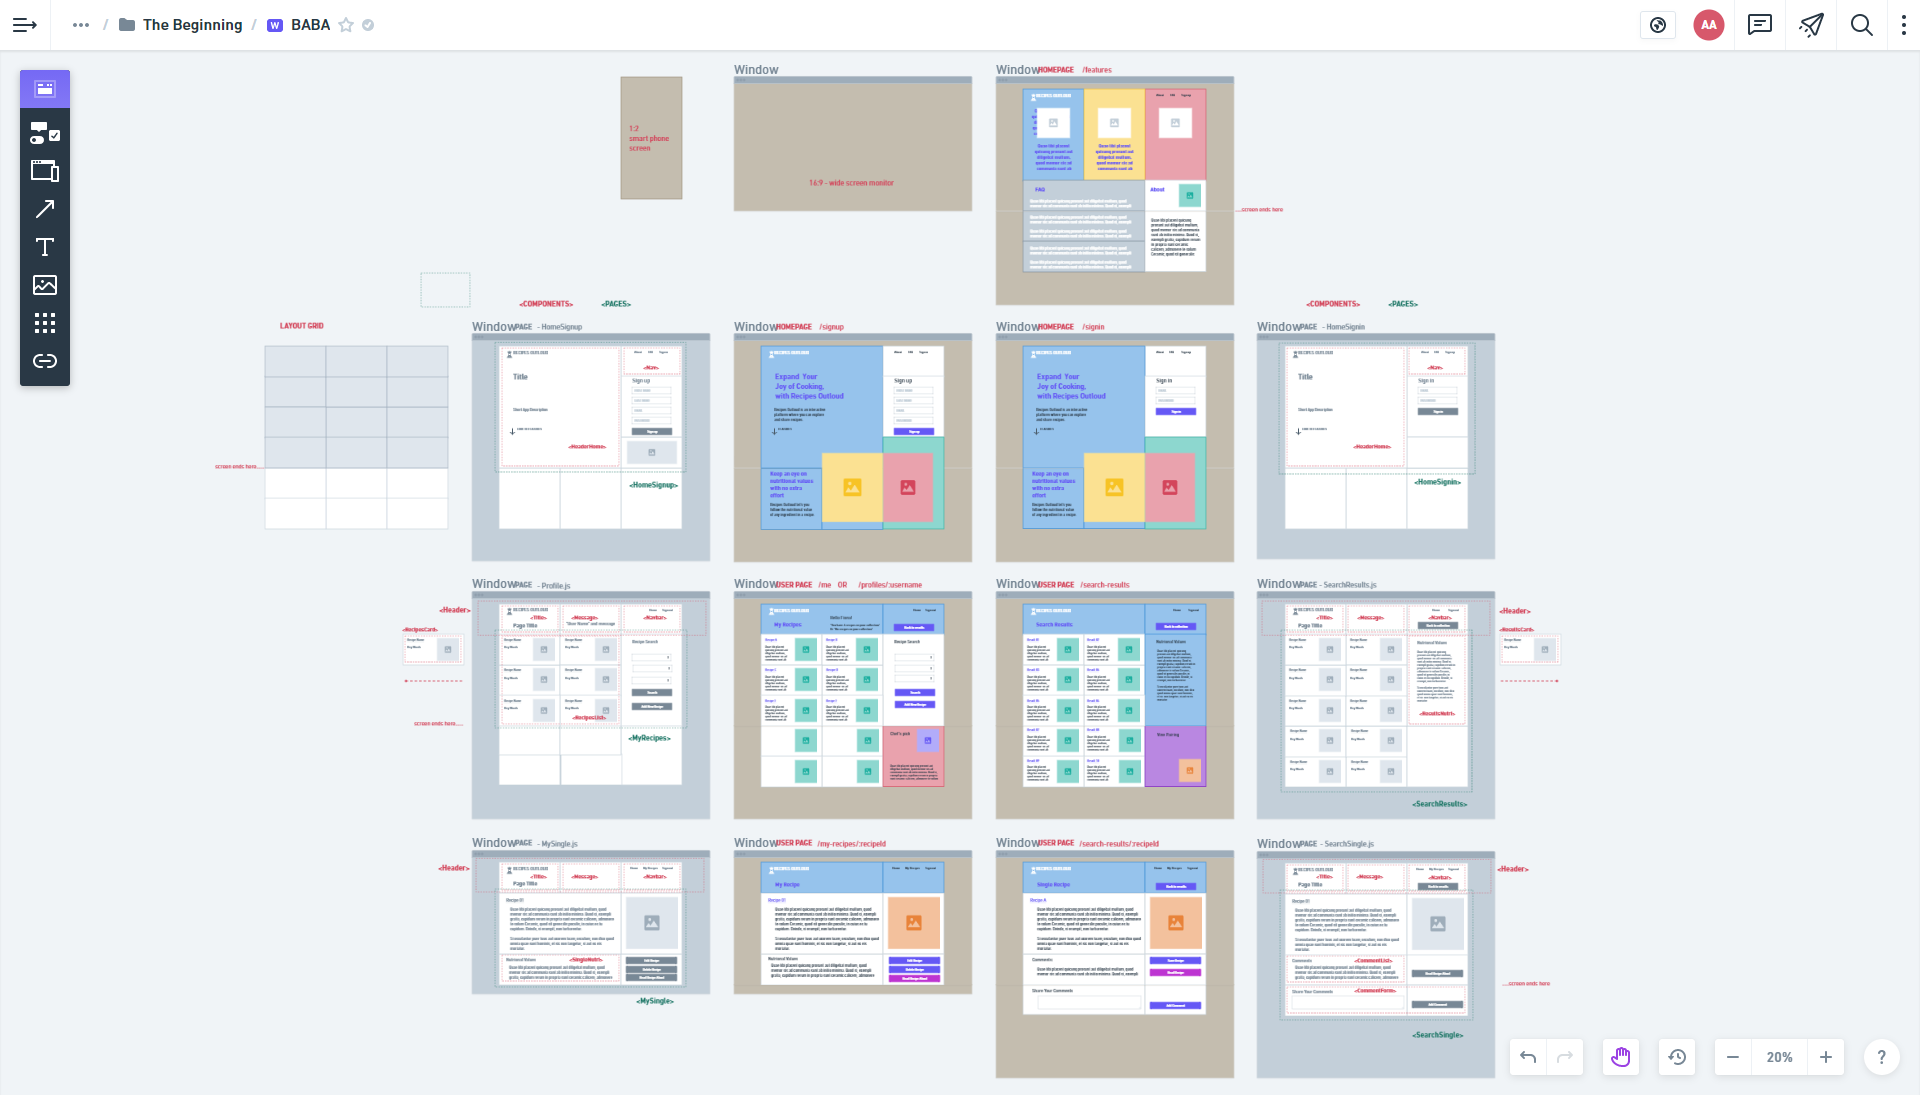
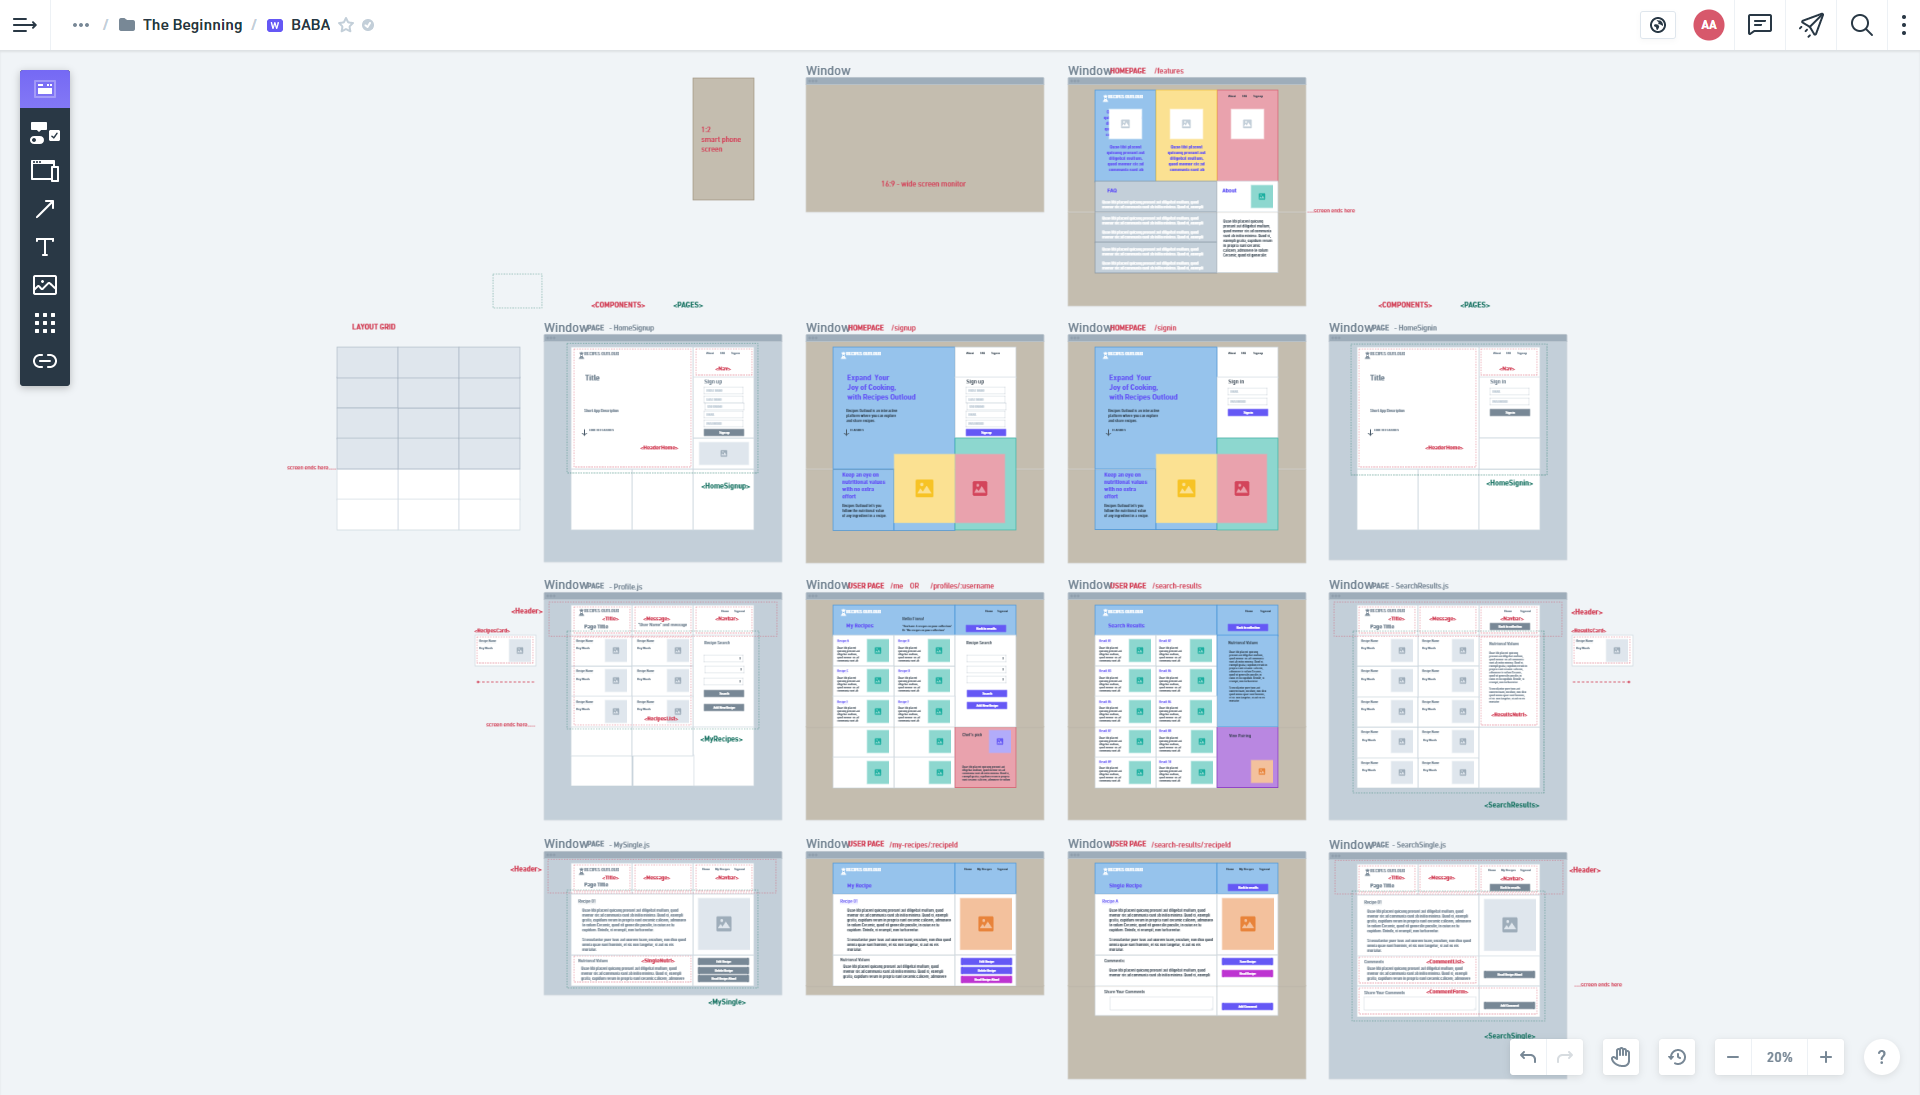
first and last name are added to signin process, all relevant files are checked and updated

Changed region(s): [[0.2188, 0.0621, 0.8438, 0.9936], [0.1875, 0.2795, 0.2188, 0.3105], [0.1562, 0.3416, 0.1875, 0.3726]]

diff --git a/client/src/pages/HomeSignup.js b/client/src/pages/HomeSignup.js
@@ -5,7 +5,7 @@ import Auth from '../utils/auth';
 import { ADD_USER } from '../utils/mutations';
 
 const Signup = (props) => {
-  const [formState, setFormState] = useState({ email: '', password: '' });
+  const [formState, setFormState] = useState({ email: '', password: '', username: '' });
   const [addUser] = useMutation(ADD_USER);
 
   // set state for alert - CSS NOTE: CREATE A MODAL FOR ALERT
@@ -27,6 +27,7 @@ const Signup = (props) => {
         variables: {
           email: formState.email,
           password: formState.password,
+          username: formState.username,
           firstName: formState.firstName,
           lastName: formState.lastName,
         },
@@ -40,10 +41,11 @@ const Signup = (props) => {
     }
     // clear the form once form submit is handled
     setFormState({
-      firstName: '',
-      lastName: '',
       email: '',
       password: '',
+      username: '',
+      firstName: '',
+      lastName: '',
     });
   };
 
@@ -73,6 +75,16 @@ const Signup = (props) => {
             name="lastName"
             type="lastName"
             id="lastName"
+            onChange={handleChange}
+          />
+        </div>
+        <div className="flex-row space-between my-2">
+          <label htmlFor="username">Username:</label>
+          <input
+            placeholder="Username"
+            name="username"
+            type="username"
+            id="username"
             onChange={handleChange}
           />
         </div>

diff --git a/server/server.js b/server/server.js
@@ -4,14 +4,12 @@ const path = require('path');
 
 const { typeDefs, resolvers } = require ('./schemas');
 const { authMiddleware } = require('./utils/auth');
-
 const db = require('./config/connection');
 
 const PORT = process.env.PORT || 3001;
 const server = new ApolloServer({
     typeDefs,
     resolvers,
-    // define any context here - authMiddleware encodes and decodes tokens back and forth. It passes the client req.s to the resolvers.js as a 'context' object with a user property.
     context: authMiddleware,
 });
 
@@ -21,7 +19,9 @@ server.applyMiddleware({ app });
 app.use(express.urlencoded({ extended: true }));
 app.use(express.json());
 
-// if we're in production, serve client/build as static assets
+// Serve up static assets - IF WE NEED
+// app.use('/images', express.static(path.join(__dirname, '../client/images')));
+
 if (process.env.NODE_ENV === 'production') {
   app.use(express.static(path.join(__dirname, '../client/build')));
 }

diff --git a/client/src/App.js b/client/src/App.js
@@ -8,12 +8,12 @@ import {
 import { setContext } from '@apollo/client/link/context';
 import { BrowserRouter as Router, Switch, Route } from 'react-router-dom';
 
-import HomeSignin from './pages/HomeSignin';
 import HomeSignup from './pages/HomeSignup';
-import Profile from './pages/Profile';
-import MySingle from './pages/MySingle';
-import SearchResults from './pages/SearchResults';
-import SearchSingle from './pages/SearchSingle';
+// import HomeSignin from './pages/HomeSignin';
+// import Profile from './pages/Profile';
+// import MySingle from './pages/MySingle';
+// import SearchResults from './pages/SearchResults';
+// import SearchSingle from './pages/SearchSingle';
 
 const httpLink = createHttpLink({
   uri: '/graphql',

diff --git a/client/src/utils/mutations.js b/client/src/utils/mutations.js
@@ -6,6 +6,8 @@ export const SIGNIN_USER = gql`
       token
       user {
         _id
+        firstName
+        lastName
         username
         email
         recipeCount
@@ -32,10 +34,12 @@ export const SIGNIN_USER = gql`
 
 export const ADD_USER = gql`
   mutation addUser($username: String!, $email: String!, $password: String!) {
-    addUser(username: $username, email: $email, password: $password) {
+    addUser(firstName: $firstName, lastName: $lastName, username: $username, email: $email, password: $password) {
       token
       user {
         _id
+        firstName
+        lastName
         username
         email
         recipeCount

diff --git a/server/schemas/typeDefs.js b/server/schemas/typeDefs.js
@@ -4,6 +4,8 @@ const typeDefs = gql`
   
 type User {
     _id: ID!
+    firstName: String!
+    lastName: String!
     username: String!
     email: String!
     recipeCount: Int
@@ -45,7 +47,7 @@ type User {
   type Mutation {
     signin(email: String!, password: String!): Auth
     
-    addUser(username: String!, email: String! password: String!): Auth
+    addUser(firstName: String!, lastName: String!, username: String!, email: String! password: String!): Auth
 
     saveRecipe(input: RecipeInput): User
 

diff --git a/server/models/User.js b/server/models/User.js
@@ -6,6 +6,16 @@ const recipeSchema = require('./Recipe');
 
 const userSchema = new Schema(
   {
+    firstName: {
+      type: String,
+      required: true,
+      trim: true
+    },
+    lastName: {
+      type: String,
+      required: true,
+      trim: true
+    },
     username: {
       type: String,
       required: true,

diff --git a/server/config/connection.js b/server/config/connection.js
@@ -1,6 +1,6 @@
 const mongoose = require('mongoose');
 
-mongoose.connect(process.env.MONGODB_URI || 'mongodb://localhost/techmatchup', {
+mongoose.connect(process.env.MONGODB_URI || 'mongodb://localhost/<new database>', {
   useNewUrlParser: true,
   useUnifiedTopology: true,
   useCreateIndex: true,

diff --git a/client/src/utils/queries.js b/client/src/utils/queries.js
@@ -3,7 +3,9 @@ import { gql } from '@apollo/client';
 export const GET_ME = gql`
   query me {
     me {
-      _id
+       _id
+      firstName
+      lastName 
       username
       email
       recipeCount

diff --git a/server/models/Recipe.js b/server/models/Recipe.js
@@ -12,6 +12,9 @@ const recipeSchema = new Schema({
     image: {
         type: String,
     },
+    description: {
+      type: String
+    }
 });
 
 module.exports = recipeSchema;

diff --git a/server/utils/auth.js b/server/utils/auth.js
@@ -32,6 +32,6 @@ module.exports = {
       console.log('Invalid token');
     }
 
-   return(req);
+   return req;
   },
 };
